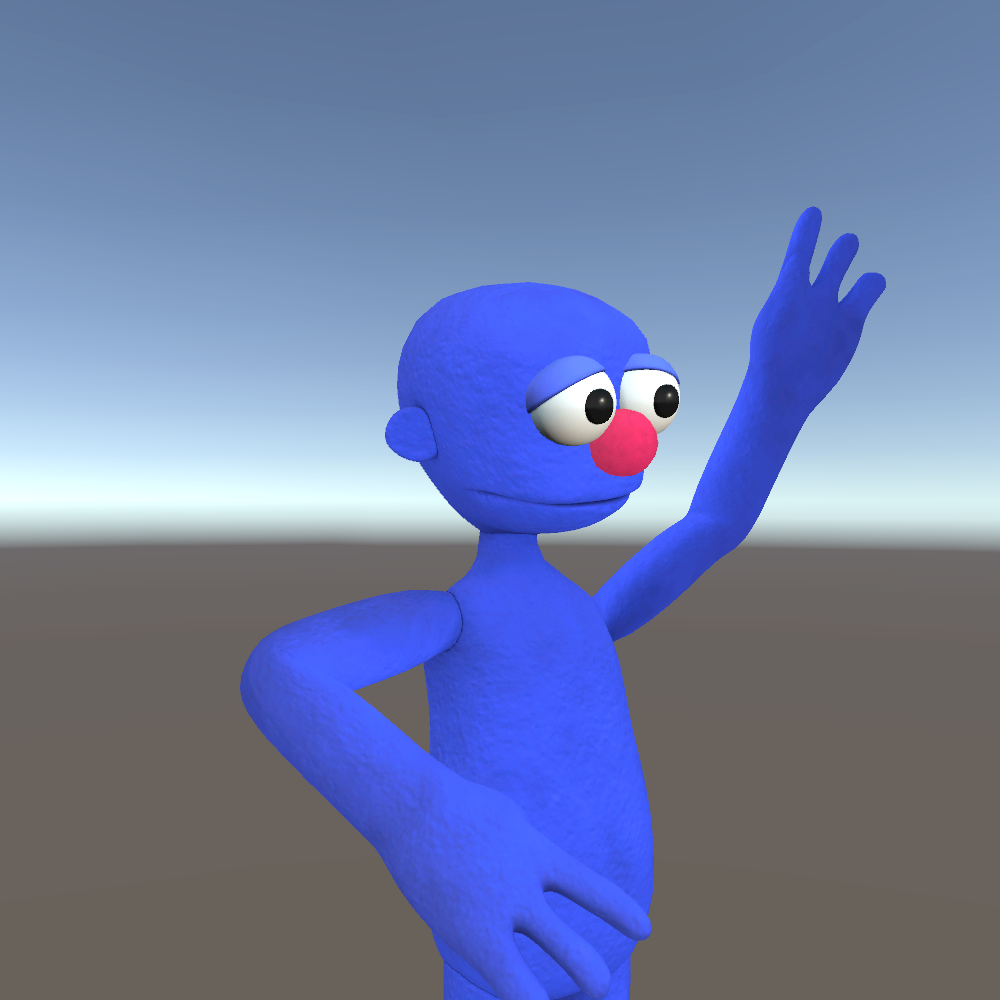
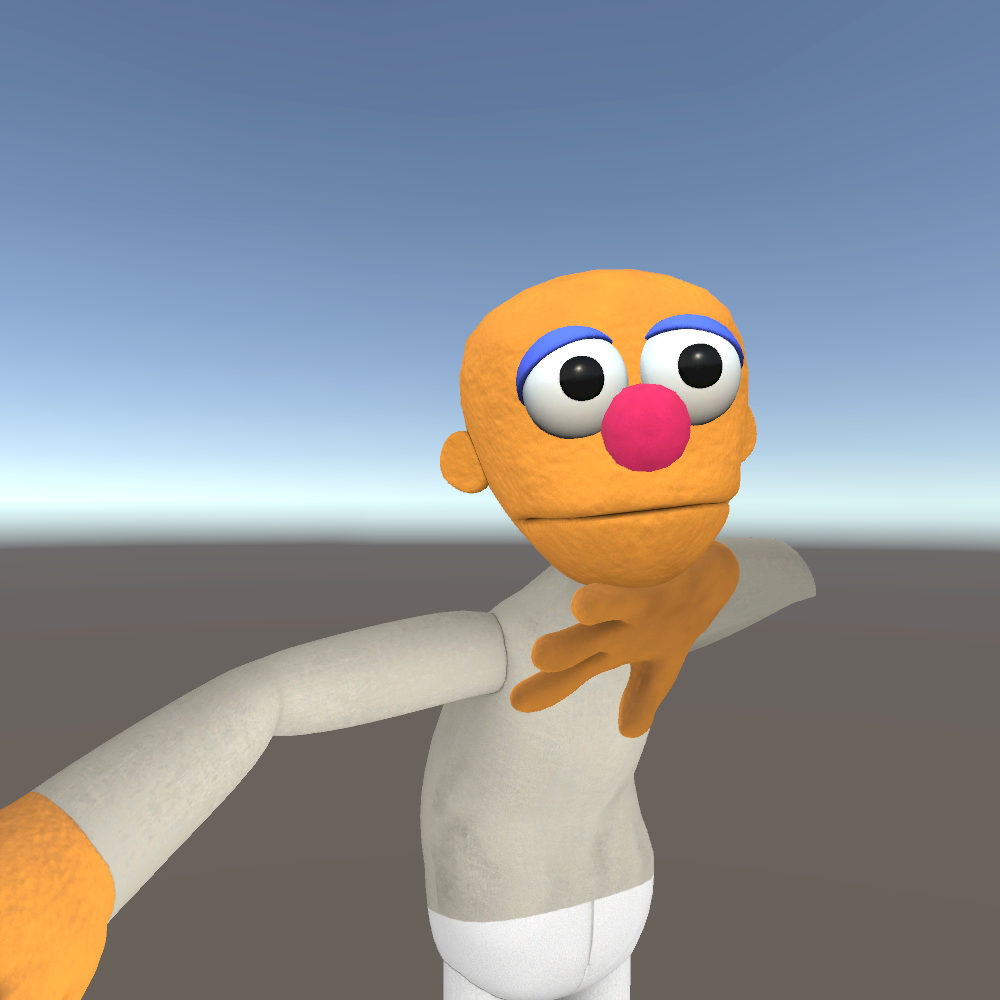
Different textures baybee

Changed region(s): [[0.0, 0.186, 0.899, 1.0]]

diff --git a/Assets/_Scripts/InitializeCharacter.cs b/Assets/_Scripts/InitializeCharacter.cs
@@ -7,12 +7,25 @@ public class InitializeCharacter : MonoBehaviour
     [SerializeField]
     private RagdollManipulator manipulator;
 
+    [SerializeField]
+    private Material bodyMaterial;
+
+    private Texture2D[] bodyTextures;
+
     public void Awake()
     {
         GameObject.Find("GoalZones").GetComponent<GoalZoneParent>().SetupGoalZoneParent(this.gameObject.transform.position);
         GameObject.Find("PuppetManipulator").GetComponent<RagdollManipulator>().SetupRagdollManipulator();
 
+        this.CustomizeCharacter();
+
         StartCoroutine(this.RandomlyApplyGravity());
+    }
+
+    private void CustomizeCharacter()
+    {
+        this.bodyTextures = Resources.LoadAll<Texture2D>("BodyTextures");
+        this.bodyMaterial.mainTexture = this.bodyTextures[Random.Range(0, this.bodyTextures.Length)];
     }
 
     private IEnumerator RandomlyApplyGravity()
